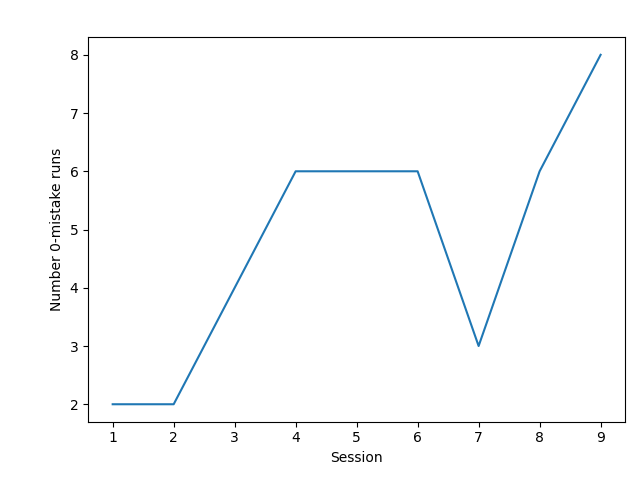
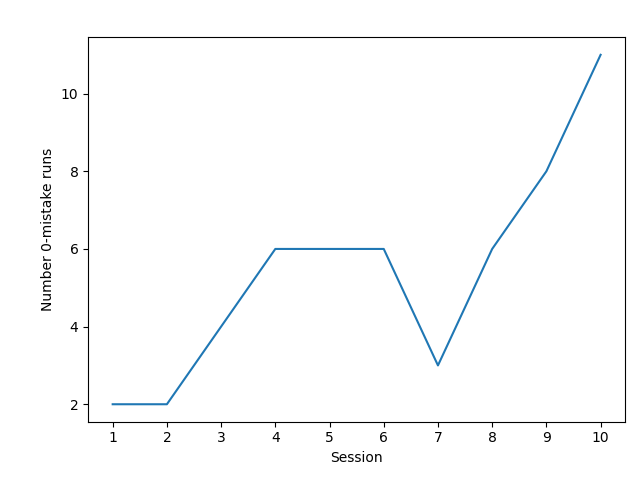
Session 10

diff --git a/analysis/generate_text_summary.py b/analysis/generate_text_summary.py
@@ -31,11 +31,15 @@ def generate_text_summary(session_ID):
         file.write(f"Total 0-mistake Runs: {nom}\n")
         file.write("\n")
         file.write(f"Mean Time Taken (ms): {mean_time}\n")
+        file.write(f'Standard Deviation: {df["Total Time Taken (ms)"].std()}\n')
+        file.write("\n")
         file.write(f"Median Time Taken (ms): {median_time}\n")
         file.write(f"Best Time Taken (ms): {best_time}\n")
         file.write(f"Worst Time Taken (ms): {worst_time}\n")
         file.write("\n")
         file.write(f"Mean Mistakes: {mean_mistakes}\n")
+        file.write(f'Standard Deviation: {df["Total Mistakes"].std()}\n')
+        file.write("\n")
         file.write(f"Median Mistakes: {median_mistakes}\n")
         file.write(f"Least Mistakes: {best_mistakes}\n")
         file.write(f"Most Mistakes: {worst_mistakes}\n")

diff --git a/analysis/generate_agg_data.py b/analysis/generate_agg_data.py
@@ -103,19 +103,21 @@ def generate_agg_data(sessions):
     print("Aggregate data generated successfully.")
 
 
-generate_agg_data([str(i) for i in range(1, 10)])
+upr = 11
+
+generate_agg_data([str(i) for i in range(1, upr)])
 generate_lm(
     predictor="Total Mistakes",
     response="Total Time Taken (ms)",
     output_folder_name="time_given_mistakes",
     agg=True,
-    sessions=[str(i) for i in range(1, 10)],
+    sessions=[str(i) for i in range(1, upr)],
 )
 generate_lm(
     predictor="Layout Difficulty",
     response="Total Time Taken (ms)",
     output_folder_name="time_given_diff",
     agg=True,
-    sessions=[str(i) for i in range(1, 10)],
+    sessions=[str(i) for i in range(1, upr)],
 )
-generate_plots(agg=True, sessions=[str(i) for i in range(1, 10)])
+generate_plots(agg=True, sessions=[str(i) for i in range(1, upr)])

diff --git a/analysis/generate_session_data.py b/analysis/generate_session_data.py
@@ -8,7 +8,7 @@ from generate_rolling import generate_rolling
 
 session_ID = "n"
 
-for i in range(1, 10):
+for i in range(1, 11):
     session_ID = str(i)
 
     localStorage_to_raw(session_ID)

diff --git a/README.md b/README.md
@@ -11,7 +11,7 @@
 
 26quick is a passion project, a way for me to learn front-end web development and statistical data analysis in an applied setting, and a way to research learning in humans in order to answer some questions that genuinely interest me. It's also a video game and I've always wanted to make one of those. The idea is to collect data in a simple setting over long time horizons to analyze how various practice parameters affect learning (see [the direction section](#direction) for more detail).
 
-It's modeled off a game I used to play on my phone where you simply had to tap the numbers one through twenty-five as quickly as possible. They were arranged in a square grid and it was much easier than my keyboard adaptation. I played something like 8,000 8-12s runs of that game before growing bored, and went from sub-10s runs feeling like NASCAR to a 5.5s personal best through ~20 hours of practice in spare moments throughout my day. The reason I was drawn to the game as a model for my own project is that it has a very high difficulty : complexity ratio, making it an effective magnifying glass for factor analysis. The random element of the number distribution contributes to the skill curve lengthening and enables the design simplicity, while the short run time means higher sample sizes.
+It's modeled off a game I used to play on my phone where your task was simply to tap the numbers one through twenty-five, arranged in a 5-by-5 grid, as quickly as possible. I played something like 8,000 8-12s runs of that game before growing bored, and went from sub-10s runs feeling like NASCAR to a 5.5s personal best through ~20 hours of practice in spare moments throughout my day. The reason I was drawn to the game as a model for my own project is that it has a very high difficulty / complexity ratio, making it an effective magnifying glass for factor analysis. The random element of the number distribution contributes to the skill curve lengthening and enables the design simplicity, while the short run time means higher sample sizes.
  
 ### Instructions
 
@@ -56,28 +56,29 @@ Correlations drawn from all runs over all sessions using one-factor linear regre
 * Layout difficultly predicts time taken (p≈0). Layout difficulty is assessed by the average distance in millimeters between two consecutive keys within a run. On a session by session basis (n≲100), the correlation is less obvious (p≳.05) due to the low variability of layout difficulty (sd=6.26mm), but more data makes the correlation apparent.
 * ![Time given mistakes plot](analysis/aggregate/time_given_mistakes/plot.png) ![Time given layout difficulty plot](analysis/aggregate/time_given_diff/plot.png)
 
-Data appear to be roughly normally distributed, but I'm not sure near the extremes:
+Data appear to reliably diverge from normal distribution near the extremes. I'm not sure how to interpret this yet:
 * ![Q-Q plot](analysis/aggregate/vis/qq_plot.png)
 
 
 ### Direction
 
-By its nature this is a very expandable project, and something of a perpetual work-in-progress. The data analysis is currently preliminary and small in scale (limited to a single session), so concrete goals for the future of this project include:
+By its nature this is a very expandable project, and something of a perpetual work-in-progress. Concrete goals for the future of this project include:
 * **Data collection**: This is the fun part. To take advantage of the aforementioned long skill curve and conducivity to large samples, I'll of course have to generate these samples by playing the game.
 * **Research questions**:
   - *Microscopic*
-      + How are these factors related?
-        - target key absolute location and time to press
-        - target key absolute location and mistake probability
-        - target key number and time to press
-        - target key number and mistake probability
-        - target key relative location (to last key) and time to press
-        - target key relative location (to last key) and mistake probability
-      + Does hiding mistakes and time during practice improve or hurt performance?
+      + How various factors related?
+        - target key absolute location vs time to press
+        - target key absolute location vs mistake probability
+        - target key number vs time to press
+        - target key number vs mistake probability
+        - target key relative (to last key) location vs time to press
+        - target key relative (to last key) location vs mistake probability
   - *Macroscopic*
-      + How long does it take to "warm up"? I'll take a rolling average over many sessions and identify peak performance window.
-      + Is there a benefit to taking short breaks in the middle of a session?
+      + Is there a quantifiable "warm-up" period at the beginning of a session during which performance improves, then levels off?
       + How quickly do I get better? Can the skill curve be fit well to a mathematical model (exponential decay, power law, etc.)?
-      + Does sleep noticably improve performance? More than a break of equal time?
+      + What is the effect of taking breaks of various durations during a session?
+      + What is the effect of different practice schedules? 
+        - i.e. 1hr MWF vs 30min MTWThFS
 * **More subjects**: Obviously any trends I identify in my own performance would benefit corroberation. Also would eventually like to look at inter-subject variability.
-* **Web hosting**: To that end, hosting the game online for data collection purposes is an obvious possibility, but one which I am somewhat cautious about for the time being because of all the extraneous legwork involved, and how much further I can take the project before I need to go there.
+* **Web hosting**: To that end, hosting the game online for data collection purposes is an obvious possibility, but one which I am somewhat cautious about for the time being because of all the extraneous legwork involved, and given how much further I can take the project before I need to go there.
+* **Eye tracking**: Pending real insights from current aproach and tangible research questions that can be answered with an eye tracker, there is no reason to bother with this, but it is a tempting thought.
